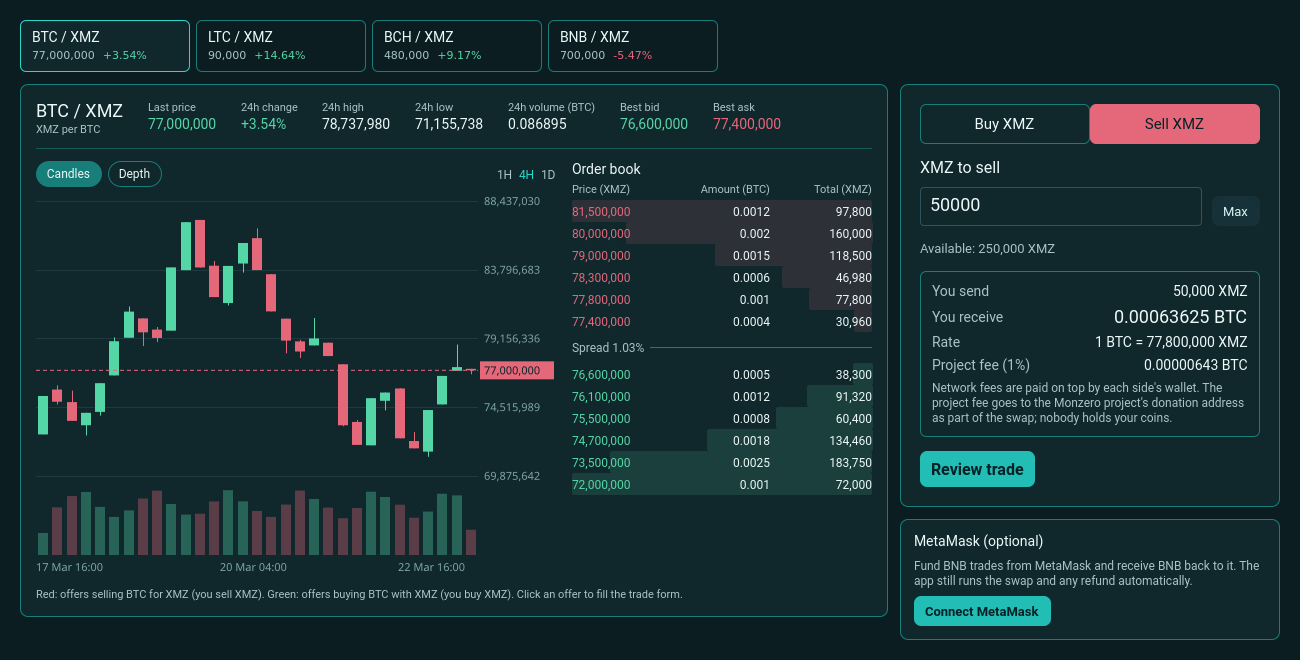
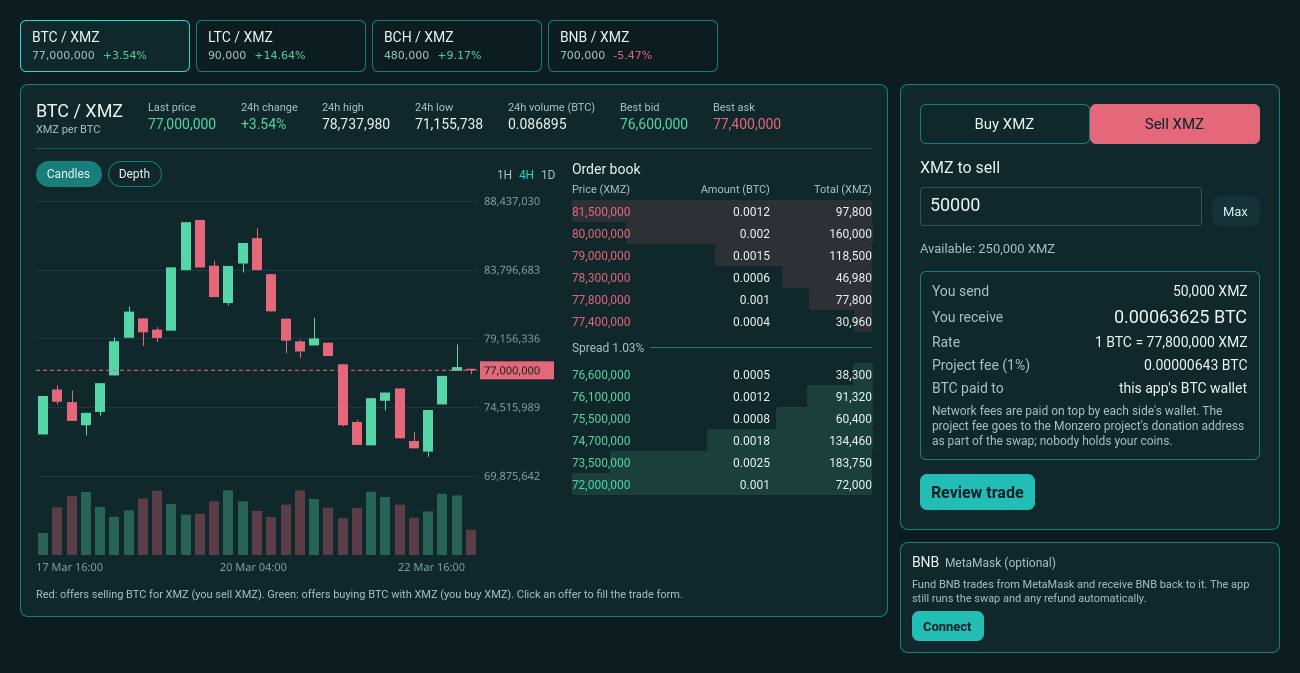
DEX app: connect your own Bitcoin, Litecoin and Bitcoin Cash wallets too
"Your wallets (optional)" on the Trade screen now has a row per coin:
MetaMask for BNB, and any Bitcoin, Litecoin or Bitcoin Cash wallet by
address (only the address is kept; persistentSettings.dexExternalWallets,
BNB keeps its earlier setting). Format checks per coin: bech32/base58 for
BTC, native SegWit only for LTC (the Litecoin swap pays only those),
cashaddr for BCH, 0x for BNB; the engine still checks each destination
against the trade's network when a trade is set up.

For BTC/LTC/BCH the connected wallet is the trade's destination: where
the coin you receive is paid when you sell XMZ (…Payout) and where your
coin is refunded if a trade you pay into does not complete (…Refund).
The quote shows it ("BTC paid to: your wallet bc1…" / "Refunds to"), or
the app's own wallet when none is connected. Trade kit README explains
using your own wallet for these terms.

197 QML tests pass (address formats per coin, quote destination line).

diff --git a/gui/components/DexExternalWallet.qml b/gui/components/DexExternalWallet.qml
@@ -3,48 +3,83 @@ import QtQuick.Layouts 1.1
 
 import "." as MonzeroComponents
 
-// Optional: connect your own EVM wallet (MetaMask) by its address. BNB trades can then be funded
-// from it, and what a trade pays out goes back to it. The app still runs every swap step and
-// refund itself, so nothing waits on the phone. Only the address is kept; no keys, no access.
+// Optional: connect your own wallet for one coin by its address (MetaMask for BNB; any Bitcoin,
+// Litecoin or Bitcoin Cash wallet). Only the address is kept: no keys, no access.
+//  - BNB: trades can be funded from it, and what a trade pays out is sent back to it.
+//  - BTC / LTC / BCH: it becomes the trade's destination: where the coin you receive is paid when
+//    you sell XMZ, and where your coin is refunded if a trade you pay into does not complete.
+// The app still runs every swap step and refund itself. The engine checks every destination
+// against the trade's network again when a trade is set up.
 Rectangle {
     id: wallet
+    property string coin: "BNB"
     property string address: ""                 // the connected address, "" when none
     signal connectRequested(string address)
     signal disconnectRequested()
     property bool editing: false
-    readonly property bool valid: /^0x[0-9a-fA-F]{40}$/.test(input.text.trim())
+    readonly property bool valid: validAddress(coin, input.text.trim())
 
     color: MonzeroComponents.Style.surfaceRaised
     radius: 8
     border.color: MonzeroComponents.Style.accentMuted
-    implicitHeight: col.implicitHeight + 28
+    implicitHeight: col.implicitHeight + 24
 
-    function shortAddress(a) { return a.length > 12 ? a.slice(0, 6) + "…" + a.slice(-4) : a }
+    // Address formats the swap engine accepts as destinations (mainnet and test networks). Litecoin
+    // destinations must be native SegWit (ltc1/tltc1/rltc1): the Litecoin swap pays only those.
+    function validAddress(c, a) {
+        var bech32 = "[02-9ac-hj-np-z]"
+        var base58 = "[1-9A-HJ-NP-Za-km-z]"
+        if (c === "BNB" || c === "ETH") return /^0x[0-9a-fA-F]{40}$/.test(a)
+        if (c === "BTC") return new RegExp("^(bc1|tb1|bcrt1)" + bech32 + "{11,71}$").test(a)
+                             || new RegExp("^[13mn2]" + base58 + "{25,34}$").test(a)
+        if (c === "LTC") return new RegExp("^(ltc1|tltc1|rltc1)" + bech32 + "{11,71}$").test(a)
+        if (c === "BCH") return new RegExp("^((bitcoincash|bchtest|bchreg):)?[qp]" + bech32 + "{41}$").test(a)
+        return false
+    }
+    function walletName(c) {
+        return c === "BNB" || c === "ETH" ? qsTr("MetaMask") : c === "BTC" ? qsTr("Bitcoin wallet")
+             : c === "LTC" ? qsTr("Litecoin wallet") : c === "BCH" ? qsTr("Bitcoin Cash wallet") : c
+    }
+    function placeholder(c) {
+        return c === "BNB" || c === "ETH" ? qsTr("Your MetaMask address (0x…)") : c === "BTC" ? qsTr("Your Bitcoin address (bc1…)")
+             : c === "LTC" ? qsTr("Your Litecoin address (ltc1…)") : qsTr("Your Bitcoin Cash address (bitcoincash:q…)")
+    }
+    function shortAddress(a) {
+        var plain = a.indexOf(":") >= 0 ? a.slice(a.indexOf(":") + 1) : a
+        return plain.length > 14 ? plain.slice(0, 7) + "…" + plain.slice(-5) : plain
+    }
 
     ColumnLayout {
         id: col
-        anchors.left: parent.left; anchors.right: parent.right; anchors.top: parent.top; anchors.margins: 14
-        spacing: 8
+        anchors.left: parent.left; anchors.right: parent.right; anchors.top: parent.top; anchors.margins: 12
+        spacing: 6
         RowLayout {
             Layout.fillWidth: true
             MonzeroComponents.TextPlain {
                 themeTransition: false; color: MonzeroComponents.Style.defaultFontColor; font.pixelSize: 14
+                text: wallet.coin
+                font.family: MonzeroComponents.Style.fontBold.name
+            }
+            MonzeroComponents.TextPlain {
+                themeTransition: false; color: MonzeroComponents.Style.dimmedFontColor; font.pixelSize: 12
                 Layout.fillWidth: true
-                text: wallet.address ? qsTr("MetaMask connected") : qsTr("MetaMask (optional)")
+                text: wallet.address ? qsTr("%1 connected").arg(wallet.walletName(wallet.coin)) : qsTr("%1 (optional)").arg(wallet.walletName(wallet.coin))
             }
             MonzeroComponents.TextPlain {
                 objectName: "walletAddress"
                 visible: wallet.address !== "" && !wallet.editing
-                themeTransition: false; color: MonzeroComponents.Style.accent; font.pixelSize: 13
+                themeTransition: false; color: MonzeroComponents.Style.accent; font.pixelSize: 12
                 text: wallet.shortAddress(wallet.address)
             }
         }
         MonzeroComponents.TextPlain {
-            themeTransition: false; color: MonzeroComponents.Style.dimmedFontColor; font.pixelSize: 12
+            visible: wallet.editing || wallet.address === ""
+            themeTransition: false; color: MonzeroComponents.Style.dimmedFontColor; font.pixelSize: 11
             Layout.fillWidth: true; wrapMode: Text.Wrap
-            text: wallet.address
-                ? qsTr("BNB trades can be funded from this wallet, and BNB you receive or get refunded can be sent back to it.")
-                : qsTr("Fund BNB trades from MetaMask and receive BNB back to it. The app still runs the swap and any refund automatically.")
+            text: wallet.coin === "BNB" || wallet.coin === "ETH"
+                ? qsTr("Fund BNB trades from MetaMask and receive BNB back to it. The app still runs the swap and any refund automatically.")
+                : qsTr("%1 you receive is paid straight to this wallet, and if a trade you pay %1 into does not complete, it is refunded here.").arg(wallet.coin)
+                  + (wallet.coin === "LTC" ? " " + qsTr("Use a native SegWit address (ltc1…).") : "")
         }
         RowLayout {
             visible: wallet.editing
@@ -53,8 +88,8 @@ Rectangle {
                 id: input
                 objectName: "walletInput"
                 Layout.fillWidth: true
-                placeholderText: qsTr("Your MetaMask address (0x…)")
-                fontSize: 14
+                placeholderText: wallet.placeholder(wallet.coin)
+                fontSize: 13
                 error: text !== "" && !wallet.valid
             }
             MonzeroComponents.StandardButton {
@@ -65,18 +100,12 @@ Rectangle {
                 onClicked: { wallet.connectRequested(input.text.trim()); wallet.editing = false }
             }
         }
-        MonzeroComponents.TextPlain {
-            visible: wallet.editing
-            themeTransition: false; color: MonzeroComponents.Style.dimmedFontColor; font.pixelSize: 11
-            Layout.fillWidth: true; wrapMode: Text.Wrap
-            text: qsTr("In MetaMask, tap your account name to copy its address, then paste it here. Use the BNB Smart Chain network in MetaMask.")
-        }
         RowLayout {
             visible: !wallet.editing
             MonzeroComponents.StandardButton {
                 objectName: "walletConnect"
                 small: true; primary: wallet.address === ""
-                text: wallet.address ? qsTr("Change") : qsTr("Connect MetaMask")
+                text: wallet.address ? qsTr("Change") : qsTr("Connect")
                 onClicked: { input.text = wallet.address; wallet.editing = true }
             }
             MonzeroComponents.StandardButton {

diff --git a/gui/pages/Dex.qml b/gui/pages/Dex.qml
@@ -177,6 +177,19 @@ Rectangle {
     property var evmTrade: root.dex.evmTradeStatus || ({})
     // The lab panels are for testers; traders see the trade card first.
     property bool showAdvanced: false
+    // The user's own wallets (optional), per coin; BNB keeps its earlier MetaMask setting
+    property var externalWallets: {
+        var m = {}
+        try { m = JSON.parse(persistentSettings.dexExternalWallets || "{}") || {} } catch (e) { m = {} }
+        if (!m.BNB && persistentSettings.dexExternalWallet) m.BNB = persistentSettings.dexExternalWallet
+        return m
+    }
+    function setExternalWallet(coin, address) {
+        var m = JSON.parse(JSON.stringify(root.externalWallets))
+        if (address) m[coin] = address; else delete m[coin]
+        persistentSettings.dexExternalWallets = JSON.stringify(m)
+        if (coin === "BNB") persistentSettings.dexExternalWallet = address || ""
+    }
     property string evmTradeError: ""
     function evmStageText(role, stage) {
         var owner = {
@@ -424,8 +437,8 @@ Rectangle {
             errorText: root.evmTradeError
             onApprove: root.evmTradeError = root.dex.approveEvmTrade(commitment) ? "" : qsTr("Approval could not start.")
             onRefresh: root.evmTradeError = root.dex.refreshEvmTrade() ? "" : qsTr("Refresh could not start.")
-            externalWallet: persistentSettings.dexExternalWallet
-            onPayoutRequested: root.evmTradeError = root.dex.payoutEvmTrade(persistentSettings.dexExternalWallet) ? "" : qsTr("The payout could not start.")
+            externalWallet: root.externalWallets.BNB || ""
+            onPayoutRequested: root.evmTradeError = root.dex.payoutEvmTrade(root.externalWallets.BNB || "") ? "" : qsTr("The payout could not start.")
         }
         // Pair tabs, as on an exchange: each shows its last price and 24 h change from completed trades
         M.DexPairTabs {
@@ -470,17 +483,28 @@ Rectangle {
                     objectName: "tradeCard"
                     Layout.fillWidth: true
                     showCoinPicker: false
+                wallets: root.externalWallets
                     offers: root.marketSnapshot.valid === true ? (root.marketSnapshot.offers || []) : []
                     xmzBalance: appWindow.currentWallet ? Number(walletManager.displayAmount(appWindow.currentWallet.unlockedBalanceAll())) : -1
                     canStart: false
                     startBlockedReason: qsTr("Testnet preview: taking an offer from the app comes next. Testnet trades are started with the trade kit for now.")
                 }
-                M.DexExternalWallet {
-                    objectName: "externalWallet"
-                    Layout.fillWidth: true
-                    address: persistentSettings.dexExternalWallet
-                    onConnectRequested: persistentSettings.dexExternalWallet = address
-                    onDisconnectRequested: persistentSettings.dexExternalWallet = ""
+                M.TextPlain {
+                    themeTransition: false; color: M.Style.defaultFontColor; font.pixelSize: 15
+                    Layout.topMargin: 4
+                    text: qsTr("Your wallets (optional)")
+                }
+                Repeater {
+                    // The selected market's coin first
+                    model: [tradeCard.coin].concat(tradeCard.coins.filter(function (c) { return c !== tradeCard.coin }))
+                    delegate: M.DexExternalWallet {
+                        objectName: "externalWallet_" + modelData
+                        Layout.fillWidth: true
+                        coin: modelData
+                        address: root.externalWallets[modelData] || ""
+                        onConnectRequested: root.setExternalWallet(modelData, address)
+                        onDisconnectRequested: root.setExternalWallet(modelData, "")
+                    }
                 }
             }
         }

diff --git a/gui/tests/qml/tst_DexTrade.qml b/gui/tests/qml/tst_DexTrade.qml
@@ -163,10 +163,34 @@ Item {
             child(wallet, "walletSave").clicked()
             compare(connected, "0x4b7c0a922d663ec68Bc6d5D5f9fa77E420C28FAF"); verify(!wallet.editing)
             wallet.address = connected
-            compare(child(wallet, "walletAddress").text, "0x4b7c\u20268FAF")
+            compare(child(wallet, "walletAddress").text, "0x4b7c0\u202628FAF")
             var dropped = false
             wallet.disconnectRequested.connect(function () { dropped = true })
             child(wallet, "walletDisconnect").clicked(); verify(dropped)
+        }
+        function test_walletAddressFormatsPerCoin() {
+            var ok = [["BNB", "0x4b7c0a922d663ec68Bc6d5D5f9fa77E420C28FAF"],
+                      ["BTC", "bc1qar0srrr7xfkvy5l643lydnw9re59gtzzwf5mdq"], ["BTC", "tb1qlz6s22qckk7ty9gqf76stee8pwrzk8uc5d7q5x"],
+                      ["BTC", "1BvBMSEYstWetqTFn5Au4m4GFg7xJaNVN2"], ["BTC", "3J98t1WpEZ73CNmQviecrnyiWrnqRhWNLy"],
+                      ["LTC", "ltc1qg42tkwuuxefutzxezdkdel39gfstuap288mfea"], ["LTC", "tltc1qg42tkwuuxefutzxezdkdel39gfstuap2xxxxxx"],
+                      ["BCH", "bitcoincash:qpm2qsznhks23z7629mms6s4cwef74vcwvy22gdx6a"], ["BCH", "qpm2qsznhks23z7629mms6s4cwef74vcwvy22gdx6a"]]
+            var bad = [["BNB", "0x1234"], ["BTC", "0x4b7c0a922d663ec68Bc6d5D5f9fa77E420C28FAF"],
+                       ["LTC", "LVg2kJoFNg45Nbpy53h7Fe1wKyeXVRhMH9"],                 // legacy Litecoin: not a swap destination
+                       ["LTC", "bc1qar0srrr7xfkvy5l643lydnw9re59gtzzwf5mdq"], ["BCH", "1BvBMSEYstWetqTFn5Au4m4GFg7xJaNVN2"],
+                       ["BTC", "bc1qar0srrr7xfkvy5l643lydnw9re59gtzzwf5mdb"]]        // 'b' is not a bech32 character
+            for (var i = 0; i < ok.length; ++i) verify(wallet.validAddress(ok[i][0], ok[i][1]), "accepted " + ok[i].join(" "))
+            for (var j = 0; j < bad.length; ++j) verify(!wallet.validAddress(bad[j][0], bad[j][1]), "refused " + bad[j].join(" "))
+            compare(wallet.shortAddress("bitcoincash:qpm2qsznhks23z7629mms6s4cwef74vcwvy22gdx6a"), "qpm2qsz\u2026gdx6a")
+        }
+        function test_quoteSaysWhereTheCoinsGo() {
+            card.amountText = "100"
+            compare(child(card, "quote_4").text, "this app's BTC wallet")
+            card.wallets = { BTC: "bc1qar0srrr7xfkvy5l643lydnw9re59gtzzwf5mdq" }
+            compare(child(card, "quote_4").text, "your wallet bc1qar0\u2026f5mdq")
+            card.direction = "buy"
+            verify(card.quote.ok)
+            compare(child(card, "quote_4").text, "your wallet bc1qar0\u2026f5mdq")
+            card.wallets = ({})
         }
         function test_unknownStageIsShownNotHidden() {
             progress.trade = trade("owner", "SomethingNew")

diff --git a/gui/components/DexTradeCard.qml b/gui/components/DexTradeCard.qml
@@ -27,6 +27,8 @@ Rectangle {
     property bool reviewing: false
     // On the exchange screen the pair tabs choose the coin; the card then hides its own picker
     property bool showCoinPicker: true
+    // The user's own wallets per coin (optional): shown as where coins are paid or refunded to
+    property var wallets: ({})
     readonly property var quote: quoteFor(direction, coin, Number(amountInput.text), offers, coinDecimals[coin], feePercent)
 
     signal startRequested(var quote)
@@ -72,6 +74,13 @@ Rectangle {
         }
     }
 
+    // Where this trade's coin goes: the connected wallet when there is one, else the app's own
+    function destinationText() {
+        var a = card.wallets && card.wallets[card.coin] ? String(card.wallets[card.coin]) : ""
+        if (!a) return qsTr("this app's %1 wallet").arg(card.coin)
+        var plain = a.indexOf(":") >= 0 ? a.slice(a.indexOf(":") + 1) : a
+        return qsTr("your wallet %1").arg(plain.length > 14 ? plain.slice(0, 7) + "…" + plain.slice(-5) : plain)
+    }
     function trim(n, places) {
         var s = Number(n).toFixed(places)
         return s.indexOf(".") < 0 ? s : s.replace(/0+$/, "").replace(/\.$/, "")
@@ -200,7 +209,9 @@ Rectangle {
                         { k: qsTr("You send"), v: card.show(card.quote.send, card.direction === "sell" ? "XMZ" : card.coin), strong: false },
                         { k: qsTr("You receive"), v: card.show(card.quote.receive, card.direction === "sell" ? card.coin : "XMZ"), strong: true },
                         { k: qsTr("Rate"), v: qsTr("1 %1 = %2 XMZ").arg(card.coin).arg(card.group(card.trim(card.quote.price, 4))), strong: false },
-                        { k: qsTr("Project fee (%1%)").arg(card.feePercent), v: card.show(card.quote.fee, card.coin), strong: false }
+                        { k: qsTr("Project fee (%1%)").arg(card.feePercent), v: card.show(card.quote.fee, card.coin), strong: false },
+                        { k: card.direction === "sell" ? qsTr("%1 paid to").arg(card.coin) : qsTr("Refunds to"),
+                          v: card.destinationText(), strong: false }
                     ] : []
                     delegate: RowLayout {
                         Layout.fillWidth: true

diff --git a/gui/tests/qml/tst_DexMarket.qml b/gui/tests/qml/tst_DexMarket.qml
@@ -64,6 +64,9 @@ Item {
                     spacing: 12
                     M.DexTradeCard { id: card; width: 380; height: implicitHeight; offers: root.sampleOffers; xmzBalance: 250000; showCoinPicker: false }
                     M.DexExternalWallet { id: mm; width: 380; height: implicitHeight }
+                    M.DexExternalWallet { id: mmBtc; width: 380; height: implicitHeight; coin: "BTC"; visible: mm.address !== "" }
+                    M.DexExternalWallet { id: mmLtc; width: 380; height: implicitHeight; coin: "LTC"; visible: mm.address !== "" }
+                    M.DexExternalWallet { id: mmBch; width: 380; height: implicitHeight; coin: "BCH"; visible: mm.address !== "" }
                 }
             }
         }
@@ -152,6 +155,7 @@ Item {
             save(shot, "sample-4-exchange-active-trade-approval.png")
             // MetaMask connected; the trade's own account waits for its BNB (sample addresses)
             mm.address = "0x4b7c0a922d663ec68Bc6d5D5f9fa77E420C28FAF"
+            mmBtc.address = "bc1qar0srrr7xfkvy5l643lydnw9re59gtzzwf5mdq"     // SAMPLE addresses
             progress.externalWallet = mm.address
             progress.trade = { configured: true, state: "ok", canApprove: false, commitment: "0xabc", account: "0x9C06a3d4f56fFF037C11f24b77B3C0F0eBCd8e0C",
                 awaitingFunding: { neededWei: "10050000000000000", haveWei: "0", missingWei: "10050000000000000" },
@@ -159,7 +163,7 @@ Item {
                             deadlines: { timeout1: "1900000000", timeout2: "1900003600" } } }
             wait(400)
             save(shot, "sample-5-exchange-metamask-funding.png")
-            mm.address = ""; progress.externalWallet = ""
+            mm.address = ""; mmBtc.address = ""; progress.externalWallet = ""
         }
     }
 }

diff --git a/gui/main.qml b/gui/main.qml
@@ -1606,6 +1606,8 @@ ApplicationWindow {
         property string bootstrapNodeAddress: ""
         // DEX: the user's own EVM wallet (e.g. MetaMask) that funds BNB trades and receives payouts. Optional.
         property string dexExternalWallet: ""
+        // DEX: the user's own wallets per coin, as JSON {"BTC": "bc1…", "LTC": "ltc1…", …}. Optional.
+        property string dexExternalWallets: "{}"
         property bool segregatePreForkOutputs: true
         property bool keyReuseMitigation2: true
         property int segregationHeight: 0

diff --git a/gui/tests/qml/tst_DexRecovery.qml b/gui/tests/qml/tst_DexRecovery.qml
@@ -7,7 +7,7 @@ TestCase {
     name: "DexRecoveryPresentation"
     // The page reads the engine only when the DEX prototype is enabled
     property bool dexPrototypeEnabled: true
-    property QtObject persistentSettings: QtObject { property string dexExternalWallet: "" }
+    property QtObject persistentSettings: QtObject { property string dexExternalWallet: ""; property string dexExternalWallets: "{}" }
     when: windowShown
     visible: true
     width: 1280

diff --git a/gui/docs/dex-trade-ui/README.md b/gui/docs/dex-trade-ui/README.md
@@ -7,7 +7,7 @@
 | `sample-2-exchange-candles-4h-sell.png` | 4-hour candles and the Sell form |
 | `sample-3-exchange-depth-buy-review.png` | Depth chart and the Buy review step |
 | `sample-4-exchange-active-trade-approval.png` | An active trade waiting for its one approval, above the market |
-| `sample-5-exchange-metamask-funding.png` | MetaMask connected (optional) and an approved BNB trade waiting for its BNB: amount, the trade's account and a payment QR code for MetaMask mobile (the QR is drawn by the app; this test rendering leaves its square empty) |
+| `sample-5-exchange-metamask-funding.png` | "Your wallets (optional)": MetaMask (BNB) and a Bitcoin wallet connected, Litecoin and Bitcoin Cash ready to connect; an approved BNB trade waiting for its BNB with the amount, the trade's account and a payment QR for MetaMask mobile (the QR is drawn by the app; this test rendering leaves its square empty). Sample addresses. |
 
 **`sample-*` pictures use a made-up order book and trade history** (in `tests/qml/tst_DexMarket.qml`)
 so the candles, chart and book have something to show; they are not market prices. The sample levels sit

diff --git a/gui/tools/dex-trade-kit/README.md b/gui/tools/dex-trade-kit/README.md
@@ -115,3 +115,12 @@ complete destination is preserved. Inspect the exact reported paths; do not
 delete other attempts' staging folders or overwrite an existing destination.
 These checks establish publication integrity, not complete policy/service
 validation or active-trade backup restoration.
+
+## Your own wallet as the destination
+
+`ltcPayout`, `ltcRefund` (and `btcPayout` / `btcRefund` on a Bitcoin stage) can be any address of
+the trader's own wallet, not only the app's light wallet: the seller of XMZ puts the address where
+it wants the coin it receives (`…Payout`), the buyer of XMZ the address where its coin goes back if
+the trade is refunded (`…Refund`). The Trade screen keeps these under "Your wallets (optional)".
+Litecoin destinations must be native SegWit (`ltc1…`). The engine checks each destination against
+the trade's network before anything is funded.
